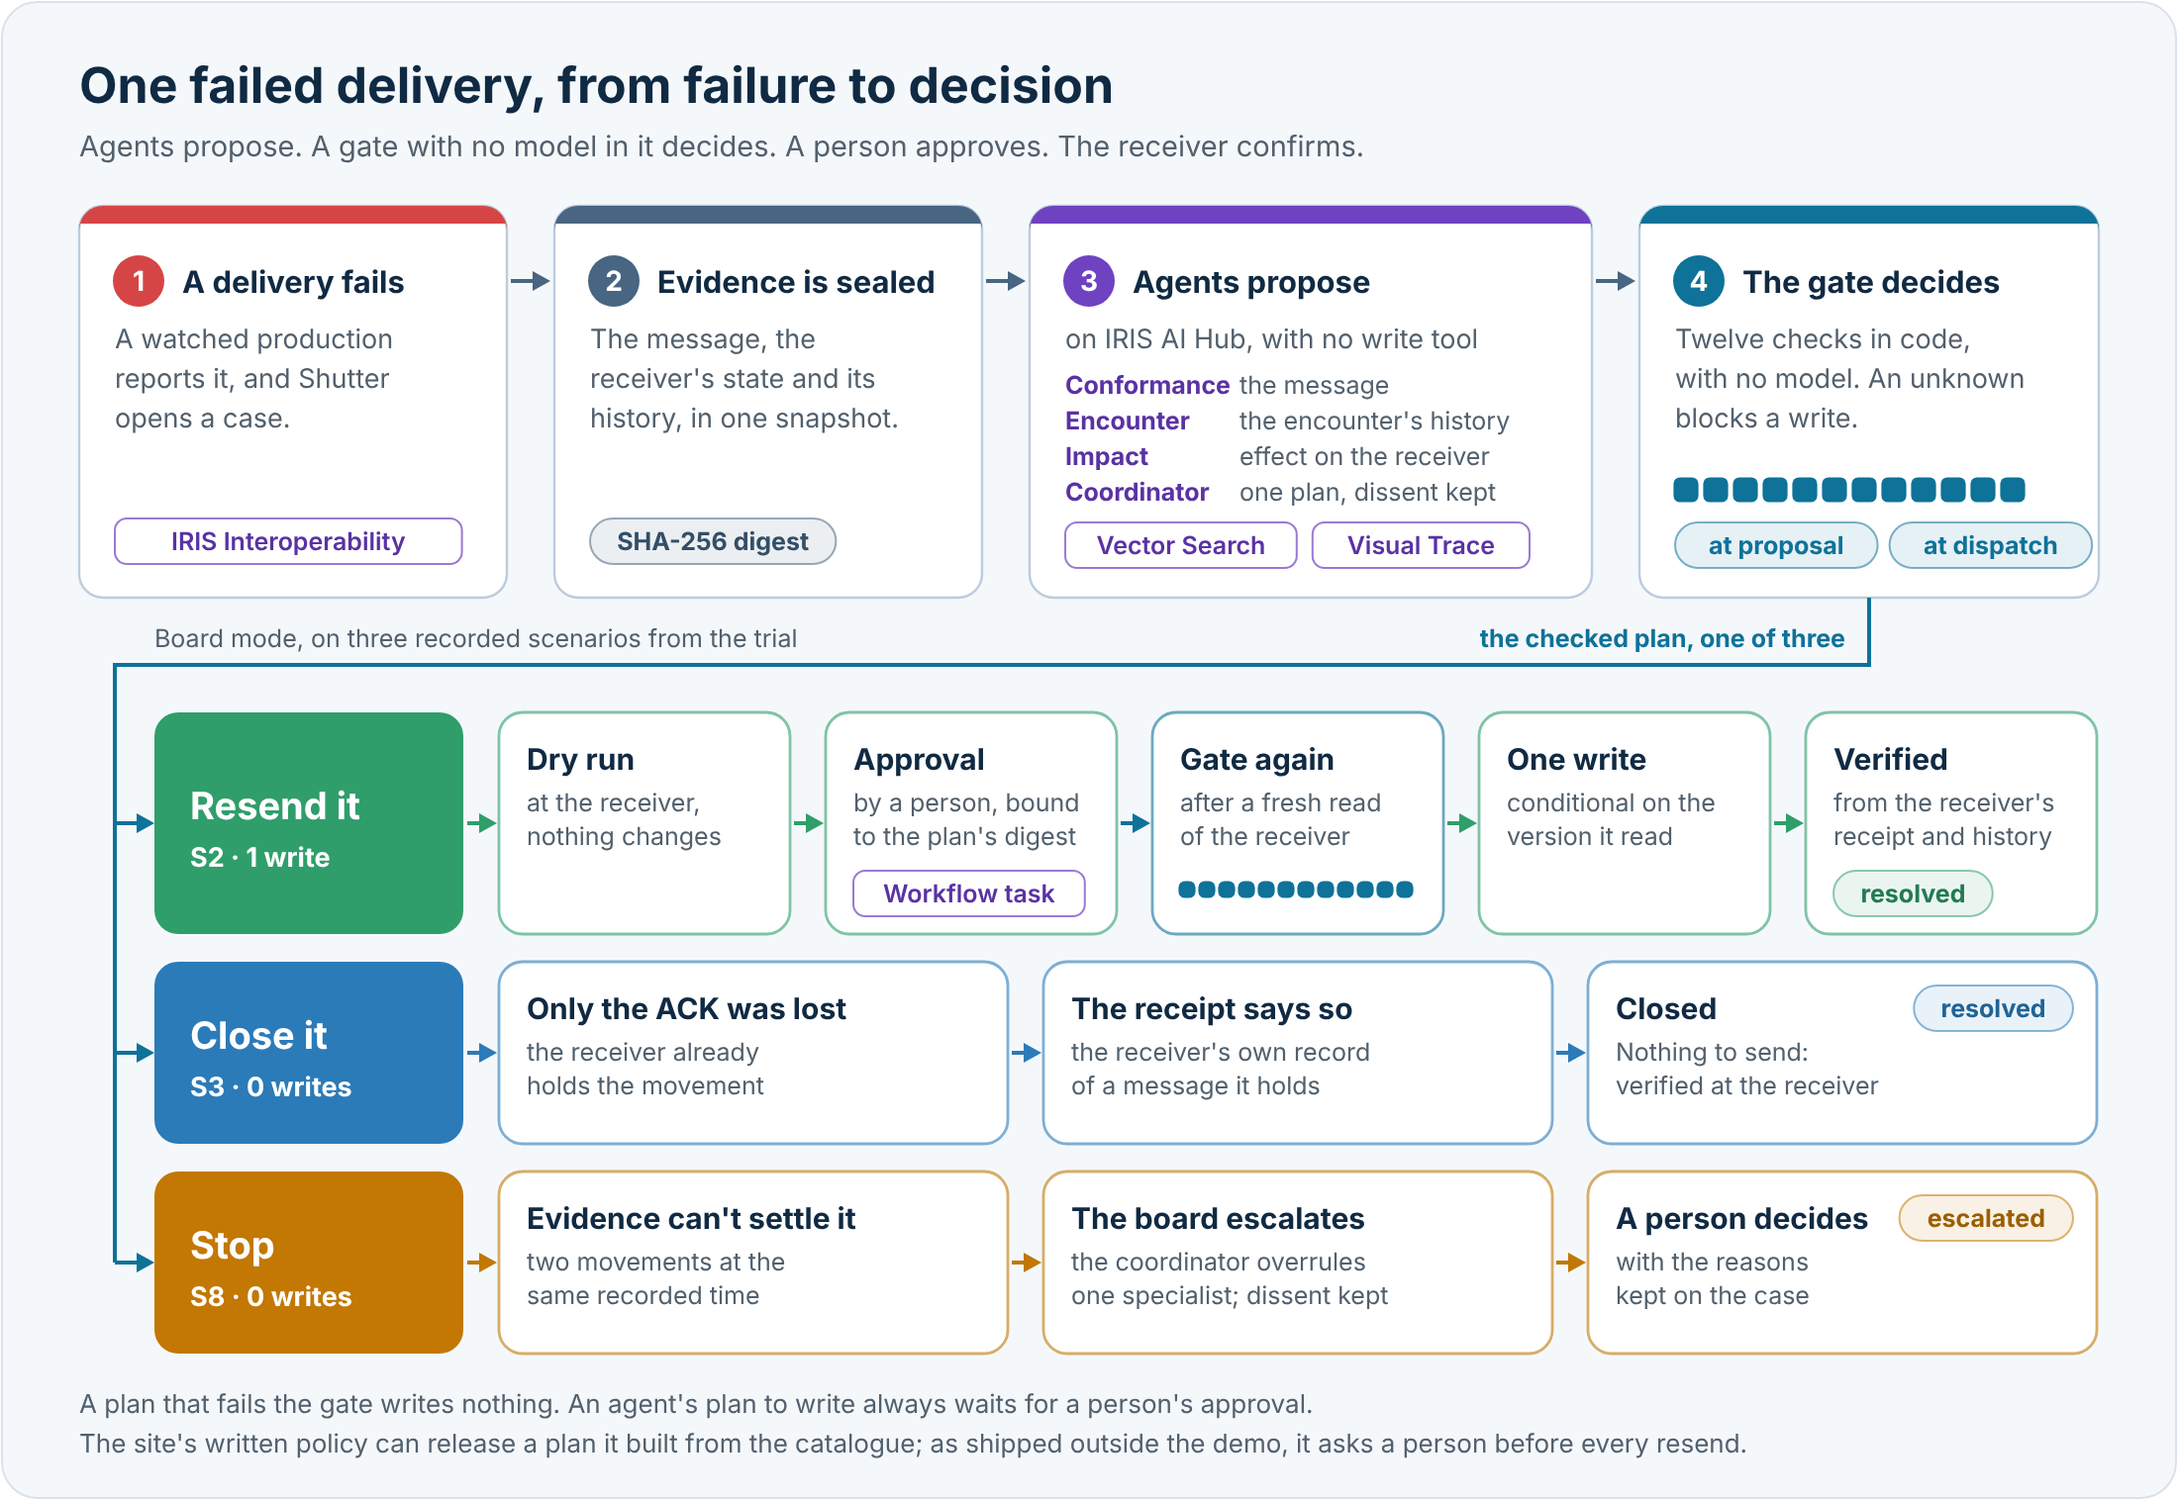
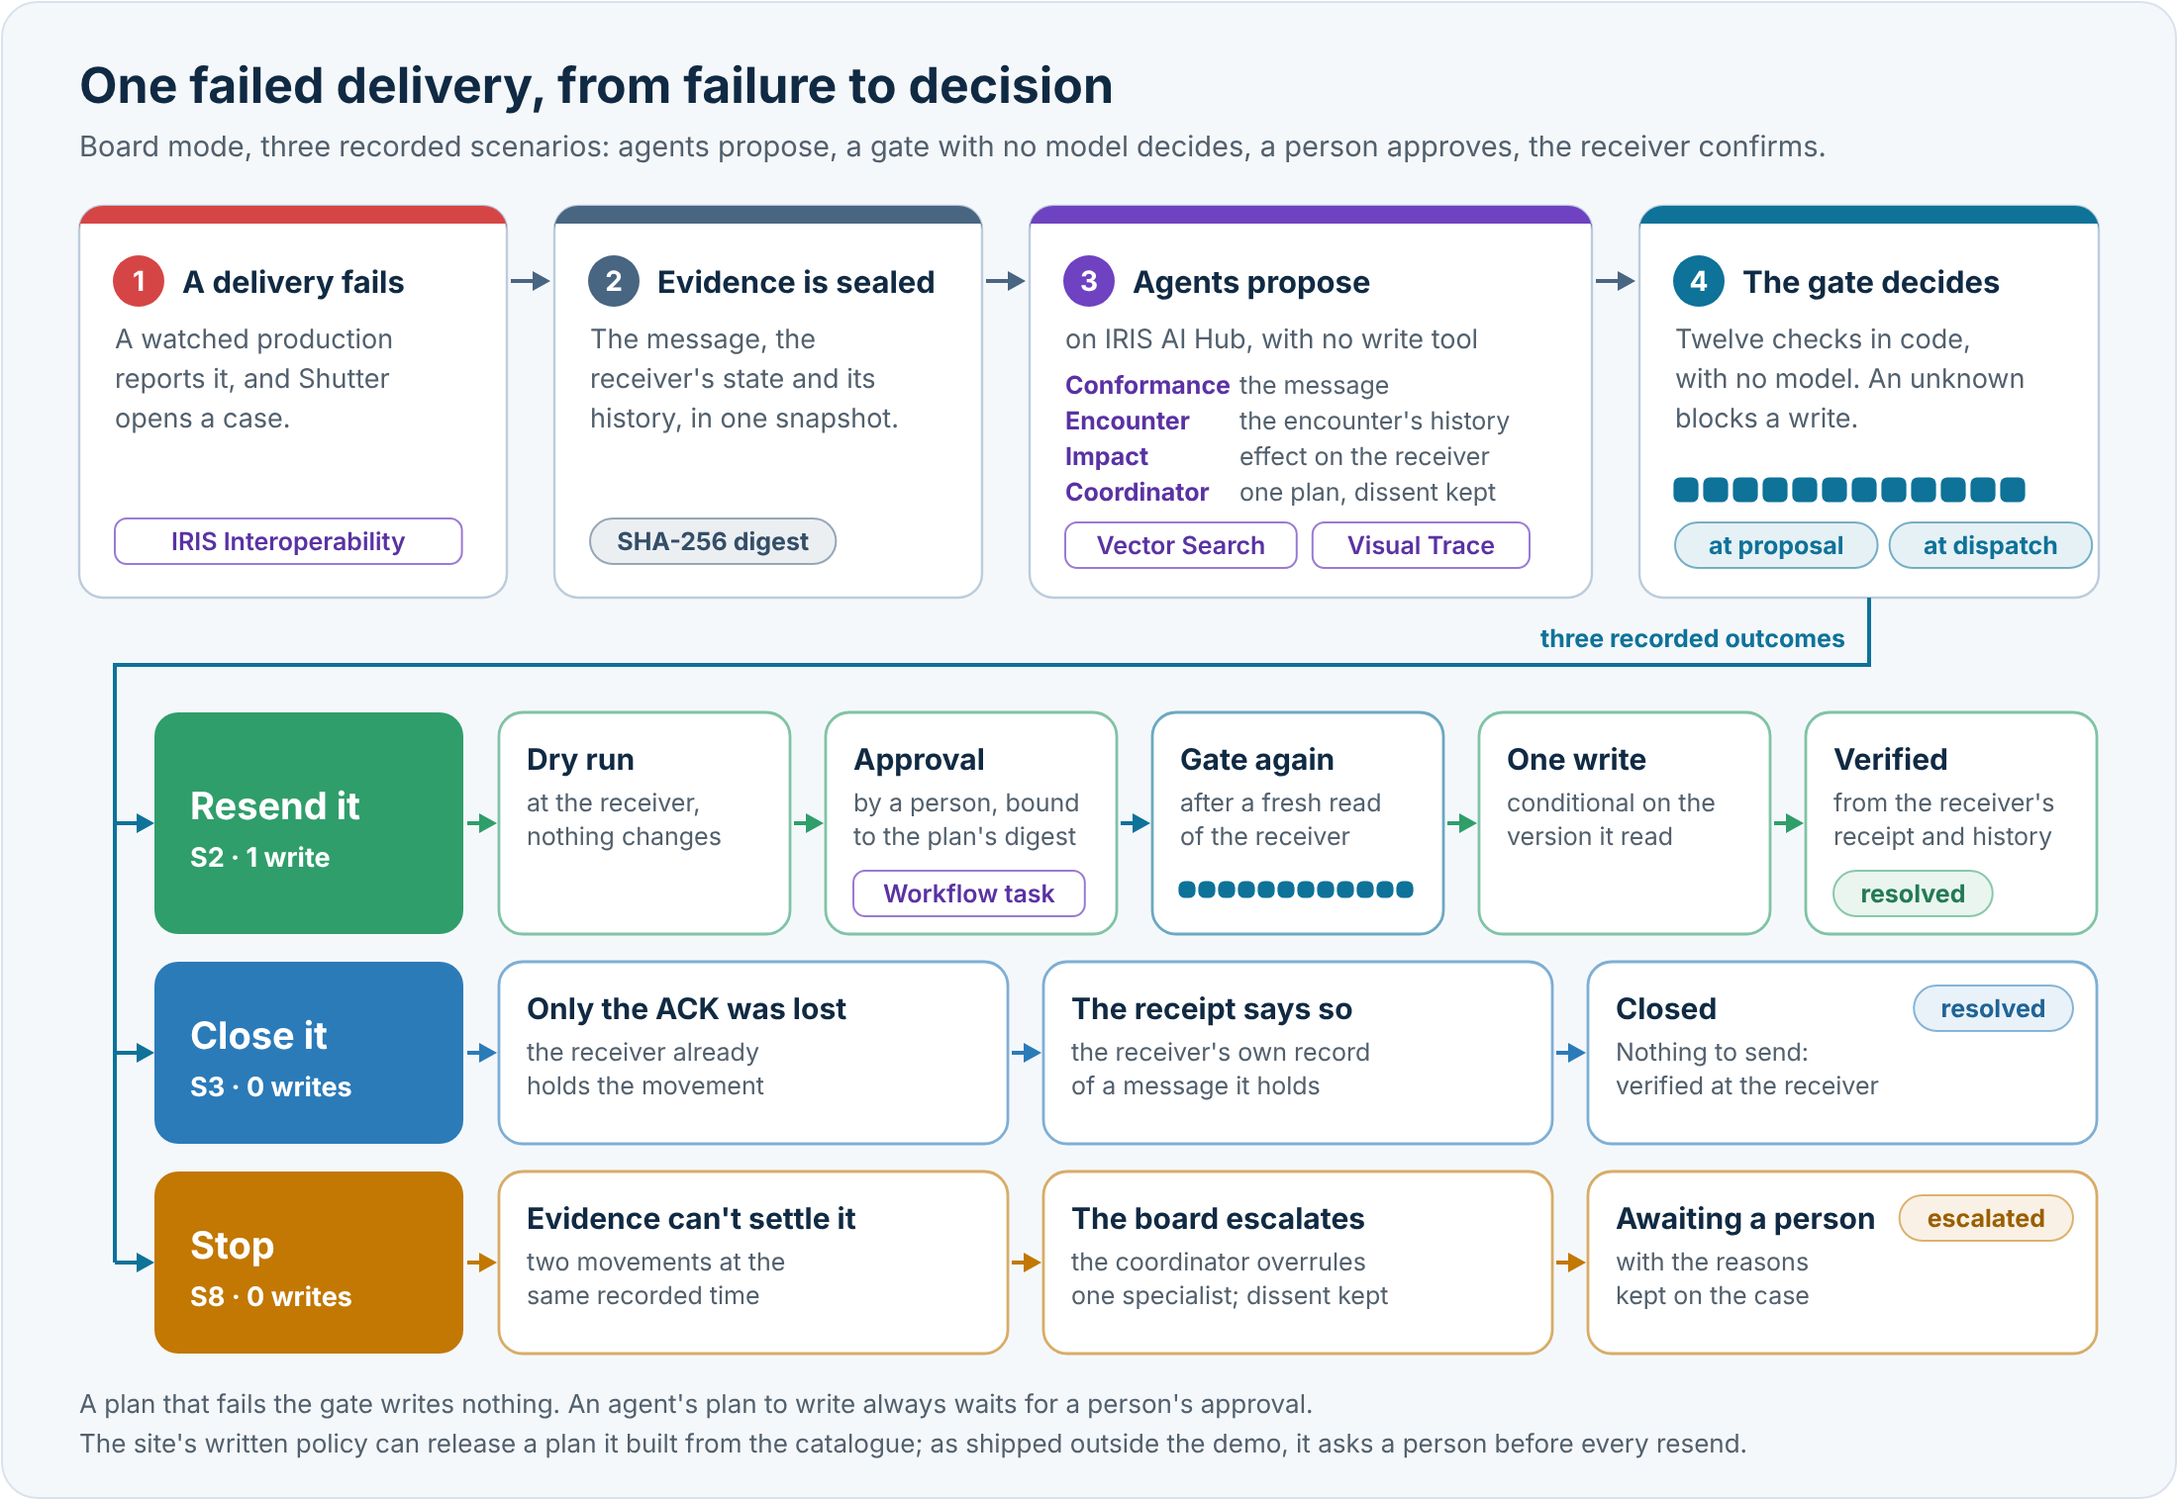
README: the diagrams keep the qualifiers the text keeps
Each drawing now names its scope where it is read: Board mode and three recorded outcomes on the flow, a case
recovered through the receiver's API on the production map. The receiver matrix says one ward move to an
in-progress Encounter, messages that never arrived, and recovery from a case. The model boundary says what
fails closed means, the evidence collector's read of the receiver is drawn, S8 carries the sentence that it
is a demonstration, and its row leaves the table the diagram now heads. Two sentences the production map
shows are cut.

diff --git a/README.md b/README.md
@@ -38,7 +38,7 @@ On an ordinary day a hospital's integration engine can see hundreds of failed me
 
 **Why I built it:** the failures above are the ones I met in my interoperability work with 28 NHS hospitals. At one trust we checked every interface daily for failed messages, and I wrote a 30-page guide to handling them. Not every clinical system checks what it receives. When a bed transfer from I.PM failed to reach NerveCentre and clinicians corrected the history there by hand, resending the failures in order could displace several patients, because NerveCentre won't put two patients in one bed and moves the other to the waiting area. Blindly resending coding messages from NerveCentre to Careflow would overwrite a patient's coding and end-date it as of today, and on older PAS systems a resent A02 for a past spell could reopen it, leaving two active spells. That is why Shutter reads the receiver before it writes. While building Shutter I filed AI Hub bug reports [#11](https://github.com/intersystems-community/ai-hub-eap-bugreports/issues/11), [#12](https://github.com/intersystems-community/ai-hub-eap-bugreports/issues/12), [#22](https://github.com/intersystems-community/ai-hub-eap-bugreports/issues/22) and [#23](https://github.com/intersystems-community/ai-hub-eap-bugreports/issues/23).
 
-![One failed delivery in four steps: a watched production reports the failure, the evidence is sealed in one snapshot with a SHA-256 digest, four agents on IRIS AI Hub propose with no write tool, and a gate of twelve checks decides, at the proposal and again at dispatch. Then the checked plan is one of three. Resend it (S2, 1 write): a dry run at the receiver, a person's approval in a Workflow task, the gate again after a fresh read, one conditional write, verified from the receiver's receipt and history. Close it (S3, 0 writes): only the ACK was lost and the receiver's own receipt says so. Stop (S8, 0 writes): the evidence cannot settle it, the board escalates and a person decides](https://raw.githubusercontent.com/MxSalata/shutter/main/docs/readme/images/one-failed-delivery.png)
+![One failed delivery in four steps, in Board mode on three recorded scenarios: a watched production reports the failure, the evidence is sealed in one snapshot with a SHA-256 digest, four agents on IRIS AI Hub propose with no write tool, and a gate of twelve checks decides, at the proposal and again at dispatch. Then three recorded outcomes. Resend it (S2, 1 write): a dry run at the receiver, a person's approval in a Workflow task, the gate again after a fresh read, one conditional write, verified from the receiver's receipt and history. Close it (S3, 0 writes): only the ACK was lost and the receiver's own receipt says so. Stop (S8, 0 writes): the evidence cannot settle it, the board escalates and the case waits for a person](https://raw.githubusercontent.com/MxSalata/shutter/main/docs/readme/images/one-failed-delivery.png)
 
 ## For judges
 
@@ -101,7 +101,7 @@ Live spending on the demo is capped at 5 USD an hour and 15 USD a day. Within th
 
 ## What a plain Resend cannot know
 
-![Scenario S8 as a diagram: the PAS transfer to WARD-B fails with HTTP 503 while the bed manager's own move to WARD-C, at the same recorded time, is applied, so the receiver holds WARD-C at version 2. A plain Resend, shown by the recorded Rules only case C-000021, sends the failed transfer again and the receiver ends with WARD-B over WARD-C, version 2 to 3. On a real case the gate's catalogue check blocks that resend; it is lifted on purpose for this recording. Shutter, in case C-000008, reads the receiver first, the board escalates to a person with the Conformance specialist's dissent kept, and the receiver still holds WARD-C at version 2, with 0 writes](https://raw.githubusercontent.com/MxSalata/shutter/main/docs/readme/images/s8-plain-resend-or-shutter.png)
+![Scenario S8 as a diagram: the PAS transfer to WARD-B fails with HTTP 503 while the bed manager's own move to WARD-C, at the same recorded time, is applied, so the receiver holds WARD-C at version 2. A plain Resend, shown by the recorded Rules only case C-000021, sends the failed transfer again and the receiver ends with WARD-B over WARD-C, version 2 to 3. On a real case the gate's catalogue check blocks that resend; it is lifted on purpose for this recording. Shutter, in case C-000008, reads the receiver first, the board escalates to a person with the Conformance specialist's dissent kept, and the receiver still holds WARD-C at version 2, with 0 writes. It is a demonstration of a plain resend's consequence, not evidence that AI alone prevents it](https://raw.githubusercontent.com/MxSalata/shutter/main/docs/readme/images/s8-plain-resend-or-shutter.png)
 
 A plain **Resend** sends the same message again without reading the receiver first, so it can repeat something the receiver already holds or revive a cancelled movement. The S numbers are scenarios on the trial's **Scenarios** page; F09 is a held-out test case.
 
@@ -110,7 +110,6 @@ A plain **Resend** sends the same message again without reading the receiver fir
 | The transfer never arrived, and nothing has happened since | The right action, taken without checking that it is still right | One write, on condition that the receiver is still at the version Shutter read, after a rehearsal and an approval. The receiver's own receipt and history then confirm it | S2 |
 | The transfer arrived; only the acknowledgement was lost | Sends it a second time | Reads the receiver's receipt, closes the case and writes nothing | S3 |
 | A later transfer has already moved the patient on | Can put the patient back in the earlier ward | The board closes the case as superseded and writes nothing. A resend proposed by rules is blocked by the gate | S1 |
-| Two systems moved the patient at the same recorded time | Writes WARD-B over the bed manager's WARD-C | Stops with 0 writes. A person decides, with the agents' disagreement on record | S8 |
 | A nurse moved the patient by hand while the resend waited for approval | Writes over her move | The approval is bound to the receiver's version, so nothing is sent. Planned again on fresh evidence, the resend is stopped and her ward stands | S20 |
 | The bed is already occupied | Fails again or, at a receiver that makes room, displaces the other patient | Reads who holds the bed, as a token. It waits for the occupant's own case when their move out also failed, and otherwise escalates | S23a to S23c |
 | The source cancelled the transfer six minutes later | Revives a cancelled movement | The catalogue matched a resend. On release 1.0.0 Site policy followed that match and wrote it in all three runs, while both agent modes escalated in all six; since then the gate also stops that write | F09 |
@@ -161,9 +160,9 @@ For an API-recovery incident, one approval binds the incident's plan. Its cases 
 
 ### Two recovery contracts
 
-![What Shutter may do depends on the receiver, in four columns. A receiver with the recovery API (S2): one mapped operation is sent, released by a person or by site policy, an agent's plan always by a person, and verified at the receiver from its receipt and history. A FHIR R4 receiver, IRIS for Health's own server: one PUT with If-Match to an existing Encounter, released by a person every time, verified in the Encounter's history, with no dry run and no receipt. An engine outage at a receiver set to engine_resend (P2): the stored HL7 messages, unchanged and in order, under one approval bound to the offered set, completed in the engine and not verified at the receiver. Any other receiver, plain MLLP included: nothing is sent from the case; a person sends the drafted email, because an ACK says a message arrived, not what the receiver holds](https://raw.githubusercontent.com/MxSalata/shutter/main/docs/readme/images/what-each-receiver-gets.png)
+![What Shutter may do depends on the receiver, in four columns. A receiver with the recovery API (S2): one mapped operation is sent, released by a person or by site policy, an agent's plan always by a person, and verified at the receiver from its receipt and history. A FHIR R4 receiver, IRIS for Health's own server: one ward move as one PUT with If-Match to an in-progress Encounter, released by a person every time, verified in the Encounter's history, with no dry run and no receipt. An engine outage at a receiver set to engine_resend (P2): the stored HL7 messages that never arrived, unchanged and in order, under one approval bound to the offered set, completed in the engine and not verified at the receiver. Any other receiver, for recovery from a case, plain MLLP included: nothing is sent from the case; a person sends the drafted email, because an ACK says a message arrived, not what the receiver holds](https://raw.githubusercontent.com/MxSalata/shutter/main/docs/readme/images/what-each-receiver-gets.png)
 
-**What Shutter may do depends on the receiver.** A case resends a patient movement only to a receiver that offers the API in the first column; a FHIR R4 entry allows the one narrower update described under the table. The demo's bed manager offers that API; a site's own receiver must be shown to. A plain MLLP receiver with no API and no FHIR entry gets no resend from a case; the one resend it can get is an outage's, through the engine (second column), where its site profile entry is set up for it. [What each kind of receiver gets](https://github.com/MxSalata/shutter/blob/main/docs/readme/first-steps.md#what-a-receiver-gets)
+**What Shutter may do depends on the receiver.** A case resends a patient movement only to a receiver that offers the API in the table's first column; a FHIR R4 entry allows the one narrower update described under the table. The demo's bed manager offers that API; a site's own receiver must be shown to. A plain MLLP receiver with no API and no FHIR entry gets no resend from a case; the one resend it can get is an outage's, through the engine (the table's second column), where its site profile entry is set up for it. [What each kind of receiver gets](https://github.com/MxSalata/shutter/blob/main/docs/readme/first-steps.md#what-a-receiver-gets)
 
 | | Case recovery through the receiver's API | Outage recovery through the engine |
 | --- | --- | --- |
@@ -180,11 +179,11 @@ The [receiver contract](https://github.com/MxSalata/shutter/blob/main/docs/readm
 
 ## Where the agents sit
 
-![Where the agents sit, as a diagram. In the hospital's production a delivery fails and the Shutter Forwarder posts it to Shutter's production on IRIS for Health with AI Hub. There Case Workflow runs one instance per case and every step is a message to another item: Case Intake, the Evidence Collector, the board, the Gate with its twelve checks run twice, the Shutter Approvers Workflow task, Downstream Out with one conditional write, and the Verifier. The board is the only part that calls a model: Agent Conformance, Agent Encounter and Agent Impact run in parallel and Agent Coordinator makes one plan with the dissent kept, and none has a write tool. A reduced copy leaves IRIS for the model provider, with tokens such as MRN-T1, demographics dropped, and nothing sent if the token map cannot be built. The receiver gets a dry run, one write and a read back](https://raw.githubusercontent.com/MxSalata/shutter/main/docs/readme/images/where-the-agents-sit.png)
+![Where the agents sit, as a diagram of Board mode for a case recovered through the receiver's API. In the hospital's production a delivery fails and the Shutter Forwarder posts it to Shutter's production on IRIS for Health with AI Hub. There Case Workflow runs one instance per case and every step is a message to another item: Case Intake, the Evidence Collector, which reads the receiver before any plan, the board, the Gate with its twelve checks run twice, the Shutter Approvers Workflow task, Downstream Out with one conditional write, and the Verifier. The board is the only part that calls a model: Agent Conformance, Agent Encounter and Agent Impact run in parallel and Agent Coordinator makes one plan with the dissent kept, and none has a write tool. A reduced copy leaves IRIS for the model provider, with tokens such as MRN-T1, demographics dropped, and nothing sent if the token map cannot be built. The receiver gets a dry run, one write and a read back](https://raw.githubusercontent.com/MxSalata/shutter/main/docs/readme/images/where-the-agents-sit.png)
 
-The board is four business operations inside the production, not an external service attached to its logs. Each is a `Shutter.Bridge.Operation.Agent` item (Agent Conformance, Agent Encounter, Agent Impact, Agent Coordinator) running the `%AI.Agent` subclass named in its `AgentClass` setting. The coordinator combines the specialists' findings into one plan with its reasons and any dissent recorded.
+The board is four business operations inside the production, not an external service attached to its logs. Each is a `Shutter.Bridge.Operation.Agent` item (Agent Conformance, Agent Encounter, Agent Impact, Agent Coordinator) running the `%AI.Agent` subclass named in its `AgentClass` setting.
 
-The specialists run in parallel. Their typed tools read the sealed evidence and search interface knowledge, and each run ends with a submit tool that returns a finding or a plan; no tool writes to a receiver. Case-scoped authorisation, a pinned list of tool names and evidence-reference checks constrain each run. Every tool call is audited in the production's **Visual Trace**.
+Their typed tools read the sealed evidence and search interface knowledge, and each run ends with a submit tool that returns a finding or a plan; no tool writes to a receiver. Case-scoped authorisation, a pinned list of tool names and evidence-reference checks constrain each run. Every tool call is audited in the production's **Visual Trace**.
 
 ![S8 in the Visual Trace: case workflow, evidence, board members and gate](https://raw.githubusercontent.com/MxSalata/shutter/main/web/public/s8-visual-trace.png)
 
